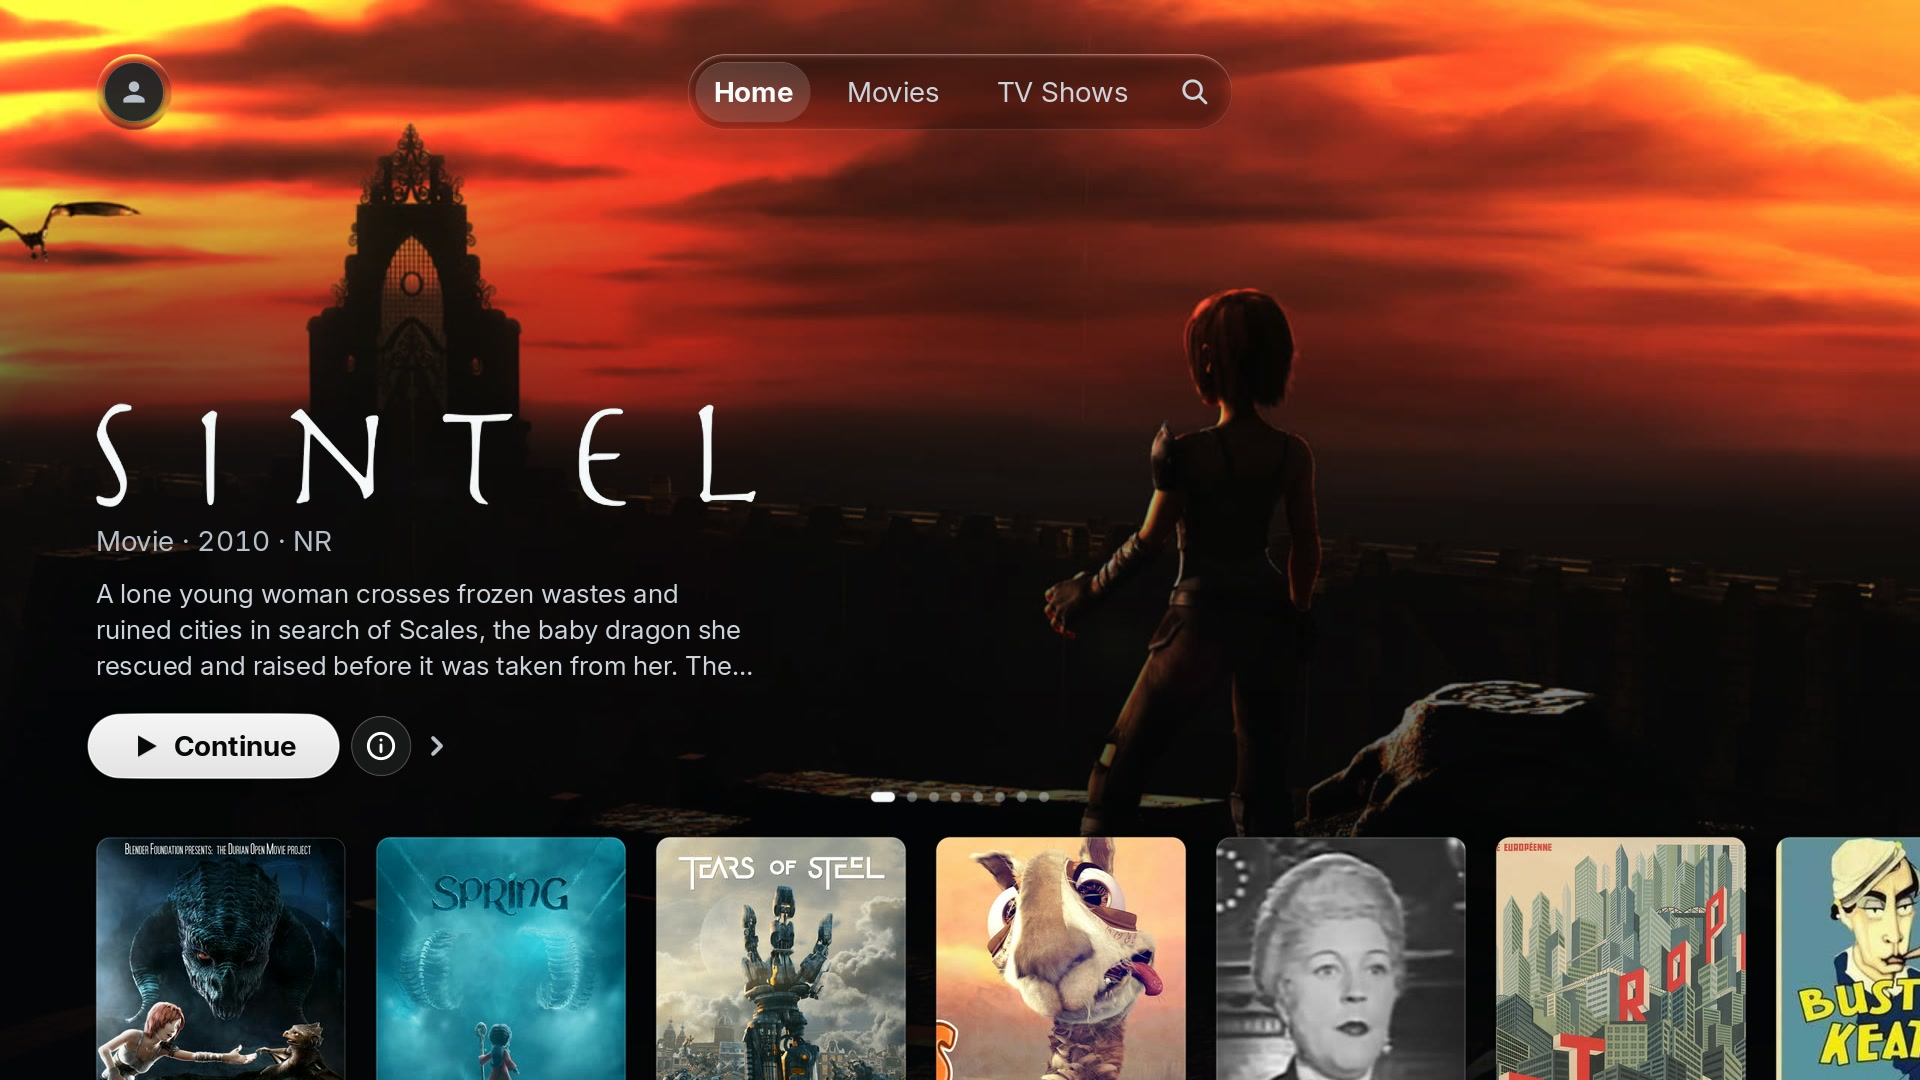
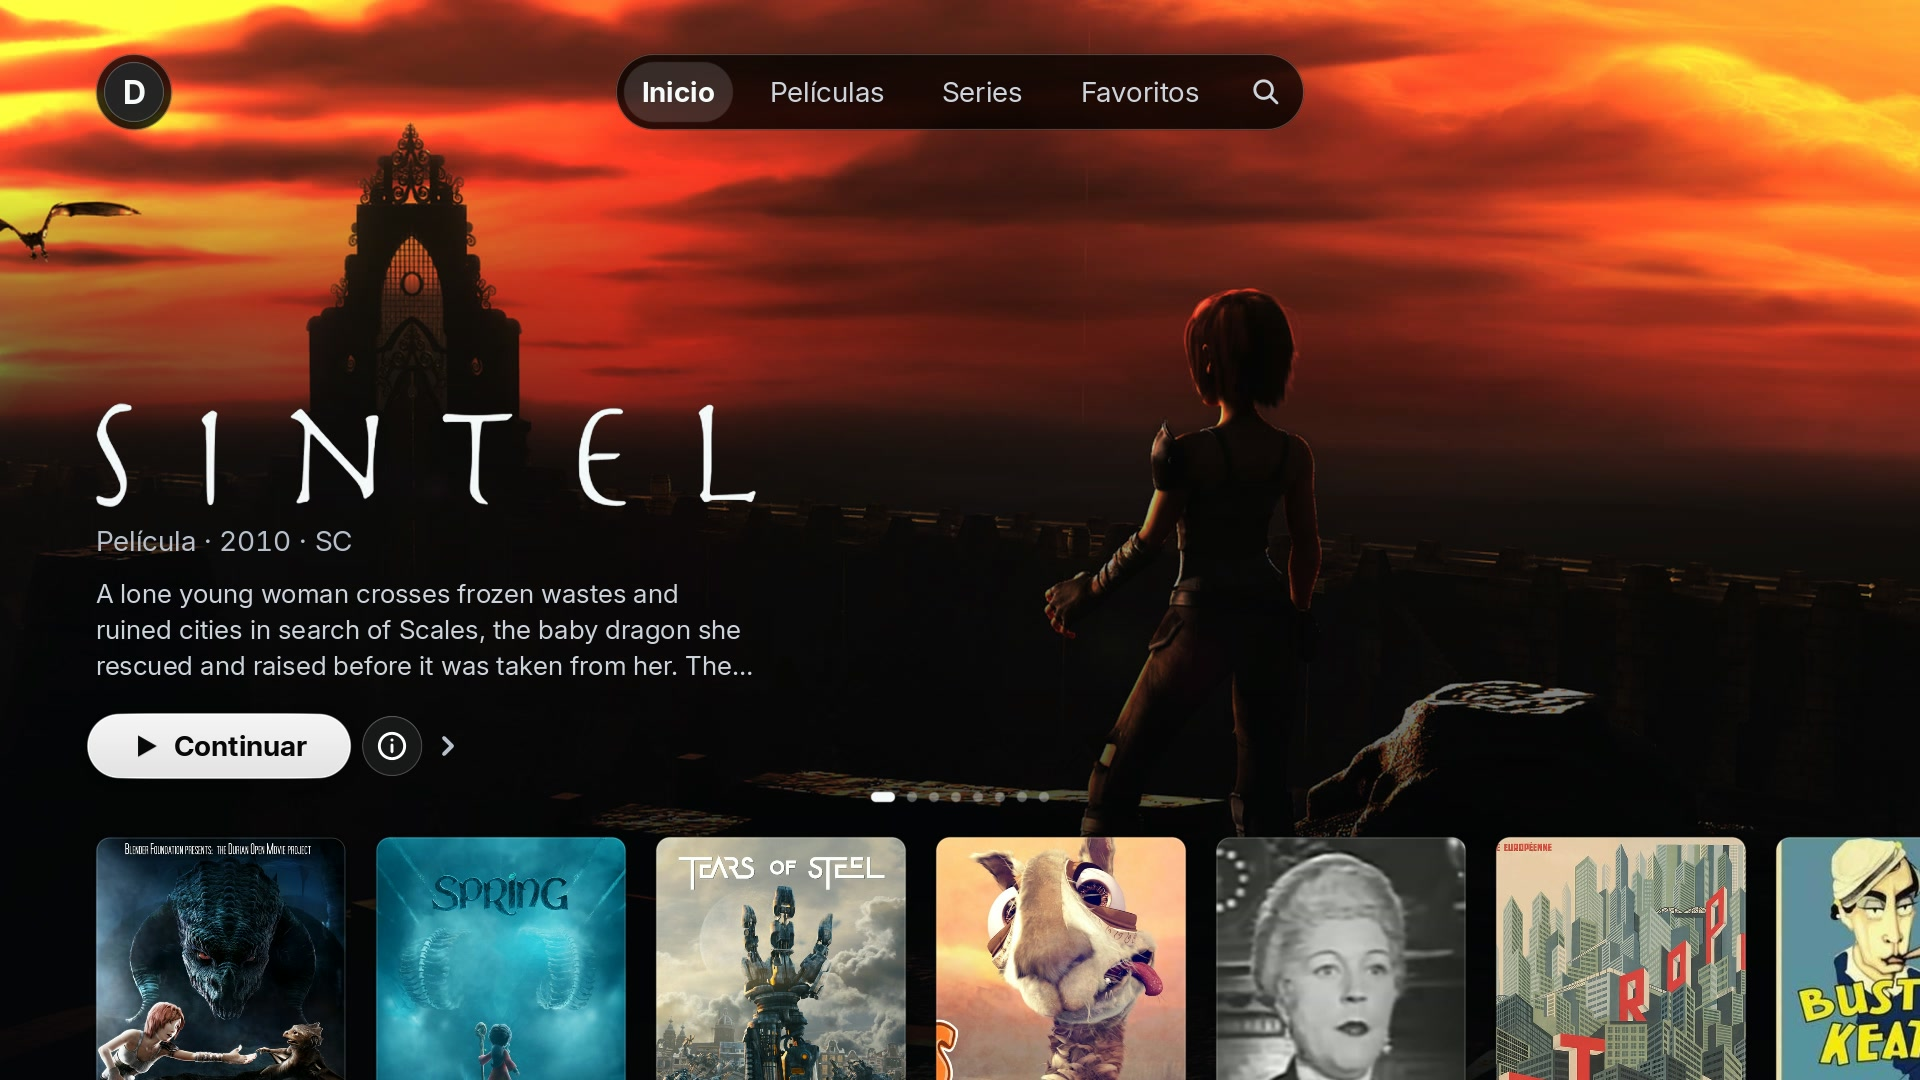
fix(app): settle the detail route and the two stale scene expectations (#258)
* fix(app): compare the hub publication after it is projected (#257)

capture_views compared the shelf publication in the middle of its own update: without home_io the browse snapshot (revision 0) was installed before the catalog projection (revision = generation) replaced it, so the pair compared two different owners inside one frame. The revision went 3 -> 0 -> 3 every frame, browse_changed came back true forever and the detail route presented at 144 fps without ever settling.

* test: settle the home and signin scene expectations (#255, #256)

home: measured glyph-antialiasing noise on the hero label (67 and 32 pixels, max delta 2, only the label's top and bottom rows) gets a documented max_delta 2 with its tolerance_reason, the same treatment site-up-next already had. signin: the scene expected 'auth: qr png', a log line the app no longer emits; the capture shows the manual form, so the expectation is now the cold open alone and the state describes what is actually drawn. The regenerated captures also carry the Favorites pill from #253 and the first detail capture that ever settled.

diff --git a/rust-modules/src/app/bridge.rs b/rust-modules/src/app/bridge.rs
@@ -696,8 +696,7 @@ impl Bridge {
         let listing_changed = !self.listing.view().same_items(listing.view())
             || self.listing.view().fetch() != listing.view().fetch();
         self.listing = listing;
-        let browse_changed = listing_changed || !self.directory.same_publication(&directory_before)
-            || hubs_before != (self.section_hubs.view().id(), self.section_hubs.view().revision());
+        let browse_changed = listing_changed || !self.directory.same_publication(&directory_before);
         let search = if self.home_io.is_some() { self.search.clone() } else {
             self.stores.search_snapshot(self.directory.view())
         };
@@ -712,6 +711,14 @@ impl Bridge {
         if hubs.hub_count() > 0 {
             self.section_hubs = crate::browse::section_hubs::HubsSnapshot::projected(hubs);
         }
+        // The shelf projection is compared ONLY once it is final. On a route with no `home_io`
+        // the browse-owned snapshot lands first and the catalog projection overwrites it below,
+        // so reading the pair before this block compared two different owners: the revision went
+        // 3 -> 0 -> 3 within the frame, `browse_changed` came out true every frame, and every
+        // screen was handed a `StoreChanged(Browse, …)` landing for data that never moved. That
+        // is what kept the detail scene presenting at 144fps until its capture timed out.
+        let browse_changed = browse_changed
+            || hubs_before != (self.section_hubs.view().id(), self.section_hubs.view().revision());
         let after = (self.hubs.view().generation, self.hubs.view().state);
         let hubs_changed = before != after;
         (browse_changed, hubs_changed, search_changed)
@@ -3047,6 +3054,9 @@ mod person_lifecycle_tests;
 #[cfg(test)]
 #[path = "collection_lifecycle_tests.rs"]
 mod collection_lifecycle_tests;
+#[cfg(test)]
+#[path = "capture_views_tests.rs"]
+mod capture_views_tests;
 
 // The controlled preferences contract boots the synthetic Jellyfin world, which
 // `Initial::validate` refuses without the feature.

diff --git a/rust-modules/src/app/capture_views_tests.rs b/rust-modules/src/app/capture_views_tests.rs
@@ -1,0 +1,48 @@
+//! `capture_views`'s change attribution: the section-shelf publication is compared once final.
+//!
+//! On a route with no `home_io` the browse-owned shelves land first and the catalog projection
+//! overwrites them in the same pass, so a comparison taken between those two writes saw a change
+//! on every frame and re-announced `StoreChanged(Browse, …)` for data that never moved (#257).
+
+use super::*;
+#[allow(unused_imports)]
+use super::test_support::*;
+
+#[test]
+fn a_route_without_home_io_does_not_reannounce_browse_on_an_unchanged_frame() {
+    let _guard = crate::testlock::serial();
+    let session = crate::server::session::TempSession::new("capture-views-hubs");
+    session.watching("u-capture-views-hubs");
+    struct Cleanup;
+    impl Drop for Cleanup {
+        fn drop(&mut self) {
+            crate::registry::reset_for_test();
+        }
+    }
+    let _cleanup = Cleanup;
+    crate::registry::reset_for_test();
+    let mut d = Dispatcher::<AppHost>::new();
+    let mut rig = Bridge::for_test(|| 0);
+    rig.stores
+        .browse
+        .borrow_mut()
+        .seed_registered_table_for_test([crate::registry::ServerId::from_raw(0); 2]);
+    rig.refresh_browse_directory();
+    rig.seed_hubs_for_test(6, crate::catalog::HubState::Ready);
+    assert!(rig.home_io.is_none(), "the fixture is the detail route's shape");
+
+    let _ = rig.capture_views(&mut d);
+    let generation = rig.hubs.view().generation;
+    assert!(rig.hubs.view().hub_count() > 0, "the catalog projection must run");
+    assert_eq!(
+        rig.section_hubs.view().revision(),
+        Some(u64::from(generation)),
+        "the published shelves are the catalog's, not the browse owner's stand-in"
+    );
+
+    let (browse_changed, _, _) = rig.capture_views(&mut d);
+    assert!(
+        !browse_changed,
+        "an identical frame announces nothing: the shelf pair is compared once it is final"
+    );
+}
